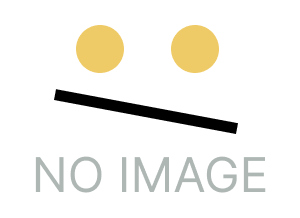
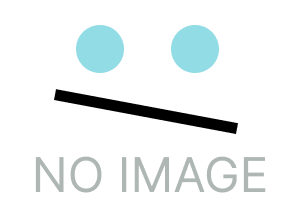
-style update

Changed region(s): [[0.24, 0.1101, 0.42, 0.3578], [0.57, 0.1101, 0.75, 0.3578]]

diff --git a/resources/views/components/layout.blade.php b/resources/views/components/layout.blade.php
@@ -19,23 +19,23 @@
                 theme: {
                     extend: {
                         colors: {
-                            laravel: "#ef3b2d",
-                            darkPurple: "#160C28",
-                            napYellow: "#EFCB68",
-                            honeyDew: "#E1EFE6",
-                            ashGray: "#AEB7B3",
+                            mintCream: "#EFF9F0",
+                            lavanderBlush: "#EEE5E9",
+                            gray: "#7C7C7C",
+                            photoBlue: "#92DCE5",
+                            eggBlue: "#52DEE5",
                             richBlack: "#000411",
                         },
                     },
                 },
             };
         </script>
-        <title>IProjektas | IT Projektų portalas</title>
+        <title>IProject | Find your dream project</title>
     </head>
-    <body class="mb-48 bg-ashGray">
-        <nav class="flex justify-between items-center mb-4">
+    <body class="mb-48 bg-lavanderBlush">
+        <nav class="flex justify-between items-center bg-lavanderBlush">
             <a href="/"
-                ><img class="w-80" src="{{asset('images/logo.png')}}" alt="" class="logo"
+                ><img class="w-20" src="{{asset('images/logo.png')}}" alt="" class="logo"
             /></a>
             <ul class="flex space-x-6 mr-6 text-lg">
                 @auth
@@ -78,13 +78,13 @@
     {{$slot}}
     </main>
     <footer
-    class="fixed bottom-0 left-0 w-full flex items-center justify-start font-bold bg-darkPurple text-white h-24 mt-24 opacity-90 md:justify-center"
+    class="fixed bottom-0 left-0 w-full flex items-center justify-start bg-lavanderBlush text-richBlack h-24 mt-24 opacity-95 md:justify-center"
 >
-    <p class="ml-2">Copyright &copy; 2023 VL, All Rights reserved</p>
+    <p class="ml-2 font-bold">Copyright &copy; 2023 VL, All Rights reserved</p>
 
     <a
         href="/listings/create"
-        class="absolute top-1/3 rounded-lg right-10 transition ease-in-out delay-150 bg-napYellow hover:-translate-y-1 hover:scale-110 hover:bg-napYellow duration-300 py-2 px-5 text-richBlack"
+        class="absolute top-1/3 rounded-lg right-10 transition ease-in-out delay-150 bg-photoBlue hover:-translate-y-1 hover:scale-110 hover:bg-gray hover:text-white duration-300 py-2 px-5 text-richBlack"
         >Post a Project!</a
     >
 </footer>

diff --git a/resources/views/partials/_hero.blade.php b/resources/views/partials/_hero.blade.php
@@ -1,29 +1,24 @@
 <section
-class="relative h-72 flex flex-col justify-center align-center text-center space-y-4 mb-4"
+class="relative h-72 flex flex-col justify-center align-center text-center space-y-4"
 >
 <div
-    class="absolute top-0 left-0 w-full h-full opacity-30 bg-no-repeat bg-center"
+    class="absolute top-0 left-0 w-full h-full bg-no-repeat bg-center bg-lavanderBlush"
     style="background-image: url('images/hero-logo.png')"
 ></div>
 
 <div class="z-10">
-    <h1 class="text-8xl uppercase text-honeyDew">
-        <span class="text-napYellow">I</span><span class="text-richBlack">Project</span>
+    <h1 class="text-8xl uppercase text-honeyDew ml-6 font-bold">
+        <span class="text-napYellow ">I</span><span class="text-richBlack">Project</span>
     </h1>
-    <p class="text-2xl text-richBlack font-bold my-4">
+    <p class="text-2xl text-richBlack my-4 ml-6">
         Find or post your dream project!
     </p>
     <div>
         @auth
-        <a
-            href="/listings/create"
-            class="inline-block text-richBlack py-2 px-4 rounded-xl uppercase mt-2 hover:bg-napYellow transition ease-in-out delay-150 hover:-translate-y-1 hover:scale-110 duration-300"
-            >Create a post</a
-        >
         @else
         <a
             href="/register"
-            class="inline-block text-richBlack py-2 px-4 rounded-xl uppercase mt-2 hover:bg-napYellow transition ease-in-out delay-150 hover:-translate-y-1 hover:scale-110 duration-300"
+            class="inline-block text-richBlack bg-photoBlue py-2 px-4 rounded-xl uppercase mt-2 hover:bg-gray hover:text-white transition ease-in-out delay-150 hover:-translate-y-1 hover:scale-110 duration-300"
             >Register to post</a
         >
         @endauth

diff --git a/resources/views/users/login.blade.php b/resources/views/users/login.blade.php
@@ -1,5 +1,5 @@
 <x-layout>
-    <x-card class="p-10 max-w-lg mx-auto mt-24">
+    <x-card class="p-10 max-w-lg mx-auto mt-16">
     <header class="text-center">
         <h2 class="text-2xl font-bold uppercase mb-1">
             Login
@@ -50,16 +50,16 @@
         <div class="mb-6">
             <button
                 type="submit"
-                class="bg-laravel text-white rounded py-2 px-4 hover:bg-black"
+                class="bg-photoBlue text-richBlack rounded py-2 px-4 hover:bg-gray hover:text-white transition ease-in-out delay-150 hover:-translate-y-1 hover:scale-110 duration-300"
             >
                 Log in
             </button>
         </div>
 
         <div class="mt-8">
-            <p>
+            <p class="">
                 Don't have an account?
-                <a href="/register" class="text-laravel"
+                <a href="/register" class="text-eggBlue"
                     >Register</a
                 >
             </p>

diff --git a/resources/views/users/register.blade.php b/resources/views/users/register.blade.php
@@ -1,5 +1,5 @@
 <x-layout>
-    <x-card class="p-10 max-w-lg mx-auto mt-24">
+    <x-card class="p-10 max-w-lg mx-auto mt-10">
     <header class="text-center">
         <h2 class="text-2xl font-bold uppercase mb-1">
             Register
@@ -87,7 +87,7 @@
         <div class="mb-6">
             <button
                 type="submit"
-                class="bg-laravel text-white rounded py-2 px-4 hover:bg-black"
+                class="bg-photoBlue text-richBlack rounded py-2 px-4 hover:bg-gray hover:text-white transition ease-in-out delay-150 hover:-translate-y-1 hover:scale-110 duration-300"
             >
                 Sign Up
             </button>
@@ -96,7 +96,7 @@
         <div class="mt-8">
             <p>
                 Already have an account?
-                <a href="/login" class="text-laravel"
+                <a href="/login" class="text-eggBlue"
                     >Login</a
                 >
             </p>

diff --git a/resources/views/partials/_search.blade.php b/resources/views/partials/_search.blade.php
@@ -1,5 +1,5 @@
-<form action="">
-    <div class="relative border-2 border-gray-100 m-4 rounded-full">
+<form action="" class="bg-lavanderBlush mb-10 pb-2">
+    <div class="relative border-2 border-gray-100 mb-4 ml-4 mr-4 rounded-full border-eggBlue">
         <div class="absolute top-4 left-3">
             <i
                 class="fa fa-search text-gray-400 z-20 hover:text-gray-500"
@@ -14,7 +14,7 @@
         <div class="absolute top-2 right-2">
             <button
                 type="submit"
-                class="h-10 w-20 text-richBlack font-bold rounded-full bg-napYellow hover:bg-darkPurple hover:text-white duration-500"
+                class="h-10 w-20 text-richBlack font-bold rounded-full bg-napYellow hover:bg-gray hover:text-white duration-500"
             >
                 Search
             </button>

diff --git a/resources/views/components/listing-tags.blade.php b/resources/views/components/listing-tags.blade.php
@@ -7,7 +7,7 @@
 <ul class="flex">
     @foreach($tags as $tag)
     <li
-        class="flex items-center justify-center bg-darkPurple text-napYellow rounded-xl py-1 px-3 mr-2 text-xs"
+        class="flex items-center justify-center bg-photoBlue text-richBlack rounded-xl py-1 px-3 mr-2 text-xs"
     >
         <a href="/?tag={{$tag}}">{{$tag}}</a>
     </li>

diff --git a/resources/views/components/card.blade.php b/resources/views/components/card.blade.php
@@ -1,3 +1,3 @@
-<div {{$attributes->merge(['class' => 'bg-honeyDew border border-gray-200 rounded-lg p-6'])}}>
+<div {{$attributes->merge(['class' => 'bg-white rounded-lg p-6'])}}>
  {{$slot}}
 </div>
